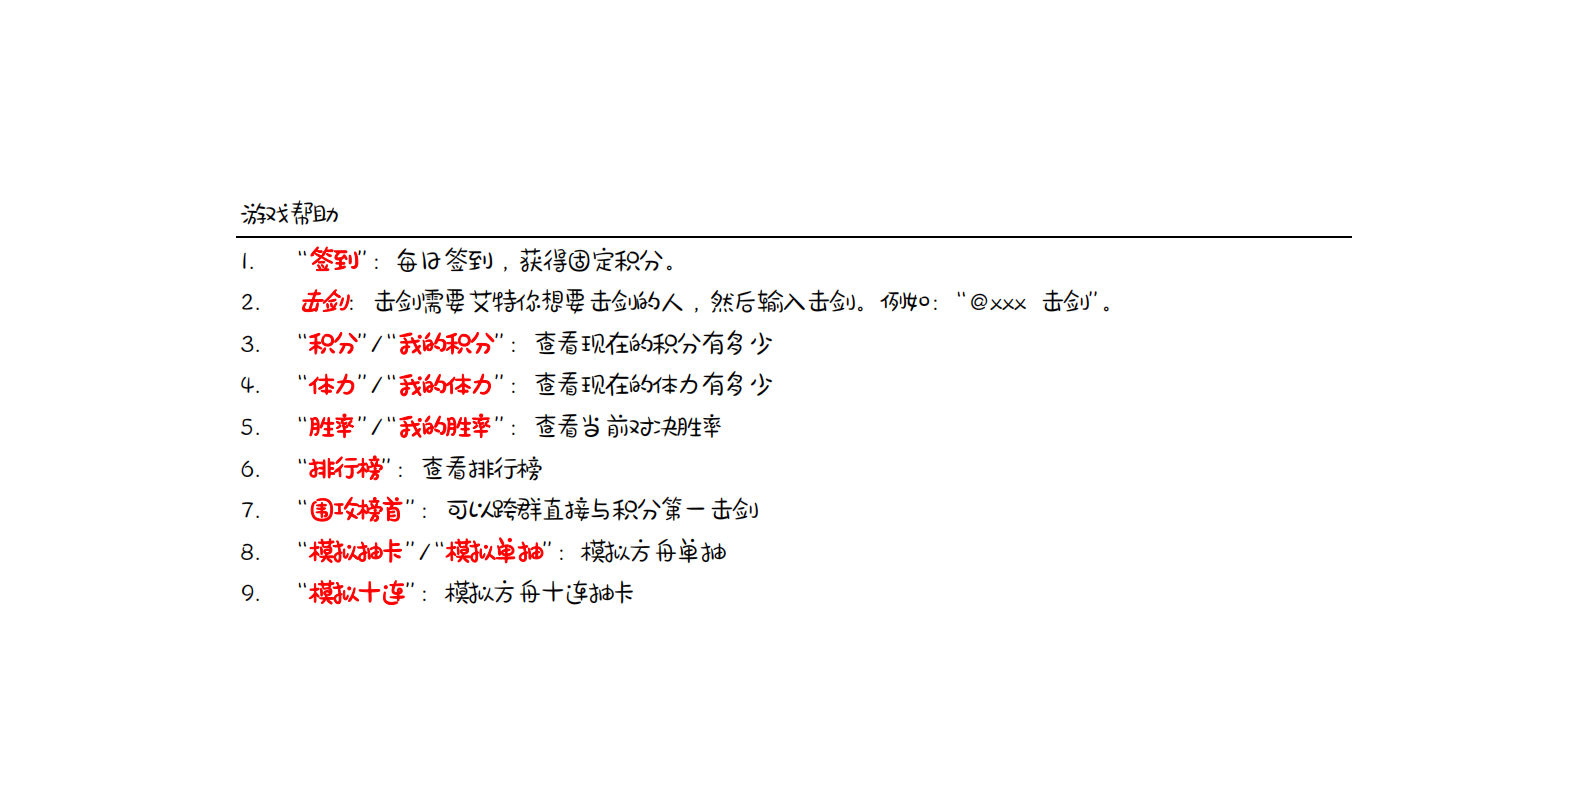
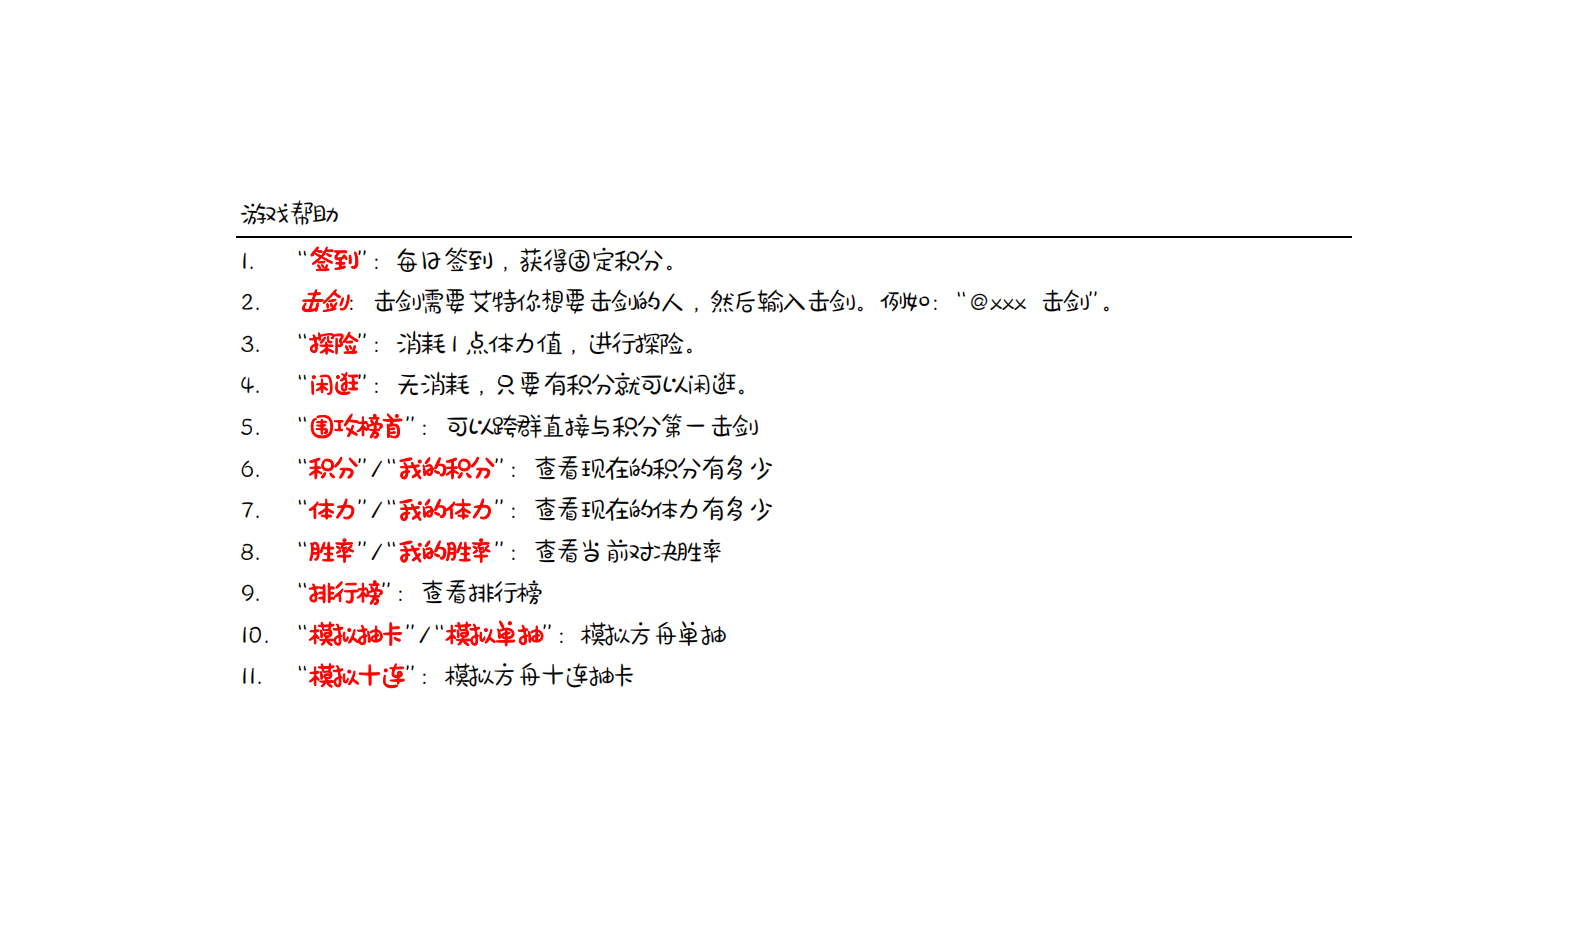
version 4.2

Changed region(s): [[0.1545, 0.2177, 0.7106, 0.7463]]

diff --git a/plugins/rpg.py b/plugins/rpg.py
@@ -36,7 +36,7 @@ async def menu(strMessage, groupId, member, app, botBaseInformation, messageChai
 
     if strMessage.strip() == '签到':
         id = member.id
-        reply = sign(id)
+        reply = memberName + sign(id)
         needReply = True
     elif '击剑' in strMessage and groupId != 0:
         tmp = strMessage.replace('击剑', '').strip()
@@ -45,7 +45,8 @@ async def menu(strMessage, groupId, member, app, botBaseInformation, messageChai
             if target != Bot_QQ:
                 await fencing(member, target, app)
             else:
-                reply = Bot_Name + '一把把你按在了地上'
+                replylist = ['一把把你按在了地上', '敲了敲你的脑袋', '摸了摸你的头说：“乖，一边去~”']
+                reply = Bot_Name + random.choice(replylist)
         needReply = True
     elif strMessage == '我的积分' or strMessage == '积分':
         id = member.id
@@ -62,16 +63,36 @@ async def menu(strMessage, groupId, member, app, botBaseInformation, messageChai
     elif strMessage == '排行榜':
         reply = getRank()
         needReply = True
+    elif strMessage == '兑换体力':
+        reply = memberName + rechargeStrength(member.id)
+        needReply = True
     elif strMessage == '模拟抽卡' or strMessage == '模拟单抽':
         reply = MRFZ_card()
         needReply = True
     elif strMessage == '模拟十连':
         reply = MRFZ_card10()
         needReply = True
-    elif strMessage == '围攻榜首':
+    elif strMessage == '围攻榜首' and groupId != 0:
         await fencingTop(member, app)
         needReply = True
-
+    elif strMessage == '探险':
+        reply = fishing(member.id, memberName)
+        needReply = True
+    elif strMessage == '闲逛':
+        reply = memberName + hangOut(member.id)
+        needReply = True
+    elif '摸摸' in strMessage and groupId != 0:
+        tmp = strMessage.replace('摸摸', '').strip()
+        if tmp[0] == '@' and tmp[1:].isdigit():
+            target = int(tmp[1:])
+            print(target)
+            print(Bot_QQ)
+            print(str(target) == str(Bot_QQ))
+            if str(target) == str(Bot_QQ):
+                reply = Bot_Name + touch(member.id, memberName)
+                print(reply)
+        needReply = True
+    
     return (needReply, needAt, reply, isImage)
 
 def sign(id):
@@ -134,17 +155,26 @@ def newUser(id, name):
                 'hp': 100,
                 'defense': 0,
                 'san': 100,
-                'strength': 15
+                'strength': 20
             },
             'last-operate-date': today
         }
         dataManage.save_obj(user, 'user/information')
     else:
         if user[id]['last-operate-date'] != today:
-            user[id]['attribute']['strength'] = 15
+            user[id]['attribute']['strength'] += 20
             user[id]['last-operate-date'] = today
             user[id]['name'] = name
             dataManage.save_obj(user, 'user/information')
+
+def rechargeStrength(id):
+    user = dataManage.load_obj('user/information')
+    if user[id]['gold'] < 2:
+        return '你的积分小于2不能兑换体力'
+    user[id]['gold'] -= 2
+    user[id]['attribute']['strength'] += 5
+    dataManage.save_obj(user, 'user/information')
+    return '你获得了5点体力'
 
 async def fencing(member, id2, app):
     if member.id == id2:
@@ -360,8 +390,10 @@ def getRank():
     rateValue = round(rateValue, 2) * 100
     if rateValueId != 0:
         result += '胜率第一（大于50场）：' + user[rateValueId]['name'] + '（' + str(int(rateValue)) + '%）\n'
-    result += '击剑达人：' + user[timesId]['name'] + '（' + str(int(user[timesId]['match']['win'] + user[timesId]['match']['lose'])) + '场）\n'
+    result += '击剑达人：' + user[timesId]['name'] + '（' + str(int(user[timesId]['match']['win'] + user[timesId]['match']['lose'])) + '场）'
     return result
+
+# ============================================
 
 def MRFZ_card():
     botBaseInformation = dataManage.load_obj('baseInformation')
@@ -497,3 +529,184 @@ def star2string(star):
         return '★★★★★☆'
     elif star == 6:
         return '★★★★★★'
+
+# ============================================
+def touch(id, name):
+    user = dataManage.load_obj('user/information')
+    if user[id]['attribute']['strength'] < 1 or user[id]['gold'] > 1:
+        return '对' + name + '不屑一顾'
+    user[id]['attribute']['strength'] -= 1
+    user[id]['gold'] += random.randint(1, 5)
+    dataManage.save_obj(user, 'user/information')
+    return '看' + name + '太可怜，于是给了你一些积分'
+
+'''
+消耗体力：1
+
+50% 啥也没有
+20% 1点体力 | 1点积分
+20% 2点体力 | 2点积分
+9% 3点体力 | 3点积分
+0.9% 4点体力 | 4点积分
+0.1% 10点体力 | 10点积分
+
+E = 0.916
+'''
+def fishing(id, name):
+    user = dataManage.load_obj('user/information')
+    if user[id]['attribute']['strength'] < 1:
+        return name + '体力值不足不能探险'
+    user[id]['attribute']['strength'] -= 1
+    ran = random.randrange(0, 1000)
+    ran2 = random.randrange(0, 2)
+
+    describe_dict = ['你来到了一个黑漆漆的山洞，四周十分安静，一番探索之后', '你来到一个遗迹，一番探索之后', '你发现了一个宝箱', '在亚马逊的原始森林里，你被讨厌的虫子烦的要死']
+
+    describe = random.choice(describe_dict)
+    result = ''
+
+    if ran < 500:
+        result = '什么也没有获得'
+    elif ran < 700:
+        if ran2 == 0:
+            user[id]['attribute']['strength'] += 1
+            result = '获得了1点体力'
+        else:
+            user[id]['gold'] += 1
+            result = '获得了1点积分值'
+    elif ran < 900:
+        if ran2 == 0:
+            user[id]['attribute']['strength'] += 2
+            result = '获得了2点体力'
+        else:
+            user[id]['gold'] += 2
+            result = '获得了2点积分值'
+    elif ran < 990:
+        if ran2 == 0:
+            user[id]['attribute']['strength'] += 3
+            result = '获得了3点体力'
+        else:
+            user[id]['gold'] += 3
+            result = '获得了3点积分值'
+    elif ran < 999:
+        if ran2 == 0:
+            user[id]['attribute']['strength'] += 4
+            result = '获得了4点体力'
+        else:
+            user[id]['gold'] += 4
+            result = '获得了4点积分值'
+    else:
+        if ran2 == 0:
+            user[id]['attribute']['strength'] += 10
+            result = '获得了10点体力'
+        else:
+            user[id]['gold'] += 10
+            result = '获得了10点积分值'
+
+    
+    dataManage.save_obj(user, 'user/information')
+    return name + describe + '，' + result
+
+
+def hangOut(id):
+    user = dataManage.load_obj('user/information')
+    if user[id]['gold'] <= 0:
+        return '你的积分为0，不能闲逛了'
+    result = ''
+
+    ran = random.randrange(0, 19)
+    if ran == 0:
+        result = '你在闲逛的时候被舞女拉进了小树林，积分-2，体力+2'
+        user[id]['gold'] -= 2
+        user[id]['attribute']['strength'] += 2
+    elif ran == 1:
+        result = '你在闲逛的时候遇见了阿拉灯神丁，他说实现你三个愿望然后摸了你的钱包转身就走，积分+3'
+        user[id]['gold'] += 3
+    elif ran == 2:
+        result = '你在闲逛的时候邂逅了笑猫，他送给你了一个大大的笑容，体力+3'
+        user[id]['attribute']['strength'] += 3
+    elif ran == 3:
+        result = '你在闲逛的时候被网红火锅店吸引没忍住冲了进去，积分-1，体力+2'
+        user[id]['gold'] -= 1
+        user[id]['attribute']['strength'] += 2
+    elif ran == 4:
+        result = '你在闲逛的时候逛回去了，啥也没获得,体力-1'
+        if user[id]['attribute']['strength'] > 1:
+            user[id]['attribute']['strength'] -= 1
+    elif ran == 5:
+        result = '你在闲逛的时候踩了一坨便便并且坚信明天会走狗屎运'
+    elif ran == 6:
+        result = '你在闲逛的时候遇见了一个可怜的乞丐，给了他一些钱，积分-5'
+        user[id]['gold'] -= 5
+    elif ran == 7:
+        result = '你在闲逛的时候玩手机没看路，撞上了电线杆，体力值-10'
+        if user[id]['attribute']['strength'] > 10:
+            user[id]['attribute']['strength'] -= 10
+        else:
+            user[id]['attribute']['strength'] = 0
+    elif ran == 8:
+        result = '你在路上看美女被小柒发现，惨遭暴打，体力-2，积分-2'
+        user[id]['gold'] -= 2
+        if user[id]['attribute']['strength'] > 2:
+            user[id]['attribute']['strength'] -= 2
+        else:
+            user[id]['attribute']['strength'] = 0
+    elif ran == 9:
+        result = '你出门之后天下起了倾盆大雨，狂奔回家之后发现钥匙丢在了咖啡厅，于是去咖啡厅拿了钥匙后折返，体力-1'
+        if user[id]['attribute']['strength'] > 1:
+            user[id]['attribute']['strength'] -= 1
+        else:
+            user[id]['attribute']['strength'] = 0
+    elif ran == 10:
+        result = '你闲逛的时候碰见富豪在路上撒钱，积分+2'
+        user[id]['gold'] += 2
+    elif ran == 11:
+        result = '你在闲逛的时候，不小心掉进了下水道，积分-5，体力-5'
+        user[id]['gold'] -= 5
+        if user[id]['attribute']['strength'] > 5:
+            user[id]['attribute']['strength'] -= 5
+        else:
+            user[id]['attribute']['strength'] = 0
+    elif ran == 12:
+        result = '你在闲逛的时候，遇见了一个卖苹果的老婆婆，你买了一些苹果，积分-1，体力+5'
+        user[id]['gold'] -= 1
+        user[id]['attribute']['strength'] += 5
+    elif ran == 13:
+        result = '你在闲逛的时候，遇见了一个卖苹果的老婆婆，你买了一些苹果，发现是毒苹果，积分-1，体力-5'
+        user[id]['gold'] -= 1
+        if user[id]['attribute']['strength'] > 5:
+            user[id]['attribute']['strength'] -= 5
+        else:
+            user[id]['attribute']['strength'] = 0
+    elif ran == 14:
+        result = '你在闲逛的时候，决定尝试一下彩票，但是没有中奖，积分-2'
+        user[id]['gold'] -= 2
+    elif ran == 15:
+        result = '你在闲逛的时候，决定尝试一下彩票，中奖了，积分+2'
+        user[id]['gold'] += 2
+    elif ran == 16:
+        result = '你在闲逛的时候，决定尝试一下彩票，中奖了，积分+3'
+        user[id]['gold'] += 3
+    elif ran == 17:
+        result = '你在闲逛的时候，决定尝试一下彩票，中奖了，积分+1'
+        user[id]['gold'] += 1
+    elif ran == 18:
+        result = '你在闲逛的时候，决定尝试一下刮刮乐，但是没有中奖，积分-2'
+        user[id]['gold'] -= 2
+    elif ran == 19:
+        result = '你在闲逛的时候，决定尝试一下刮刮乐，中奖了，积分+1'
+        user[id]['gold'] += 1
+    elif ran == 20:
+        result = '你在闲逛的时候，嘴馋买了个 冰淇淋，积分-2'
+        user[id]['gold'] -= 2
+    elif ran == 21:
+        result = '你在闲逛的时候，嘴馋买了个 冰淇淋，积分-2，体力+2'
+        user[id]['gold'] -= 2
+        user[id]['attribute']['strength'] += 2
+
+    else:
+        result = '你闲逛了一圈，啥也没有发生'
+
+    
+    dataManage.save_obj(user, 'user/information')
+    return result

diff --git a/version.md b/version.md
@@ -2,6 +2,13 @@
 
 ### 版本4
 
+#### 4.2
+
+1. 支持积分兑换体力、探险、摸摸
+2. 优化排行榜显示
+3. 新增闲逛指令
+4. 修复部分已知bug
+
 #### 4.1
 
 1. 小柒支持图片发送。
